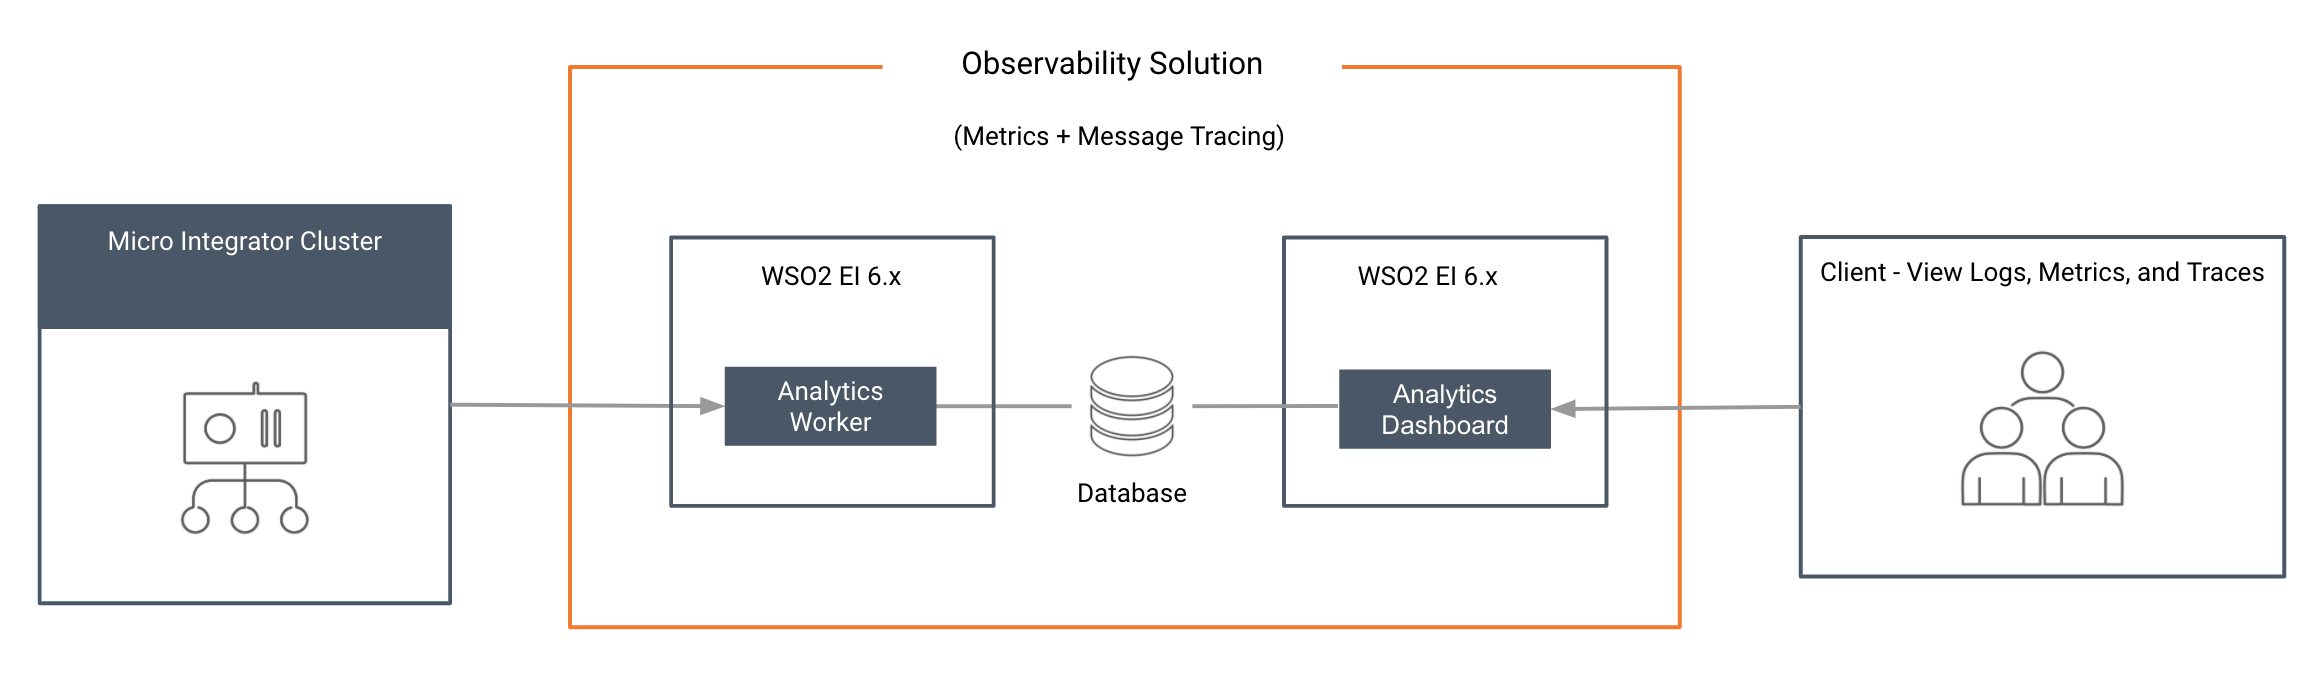
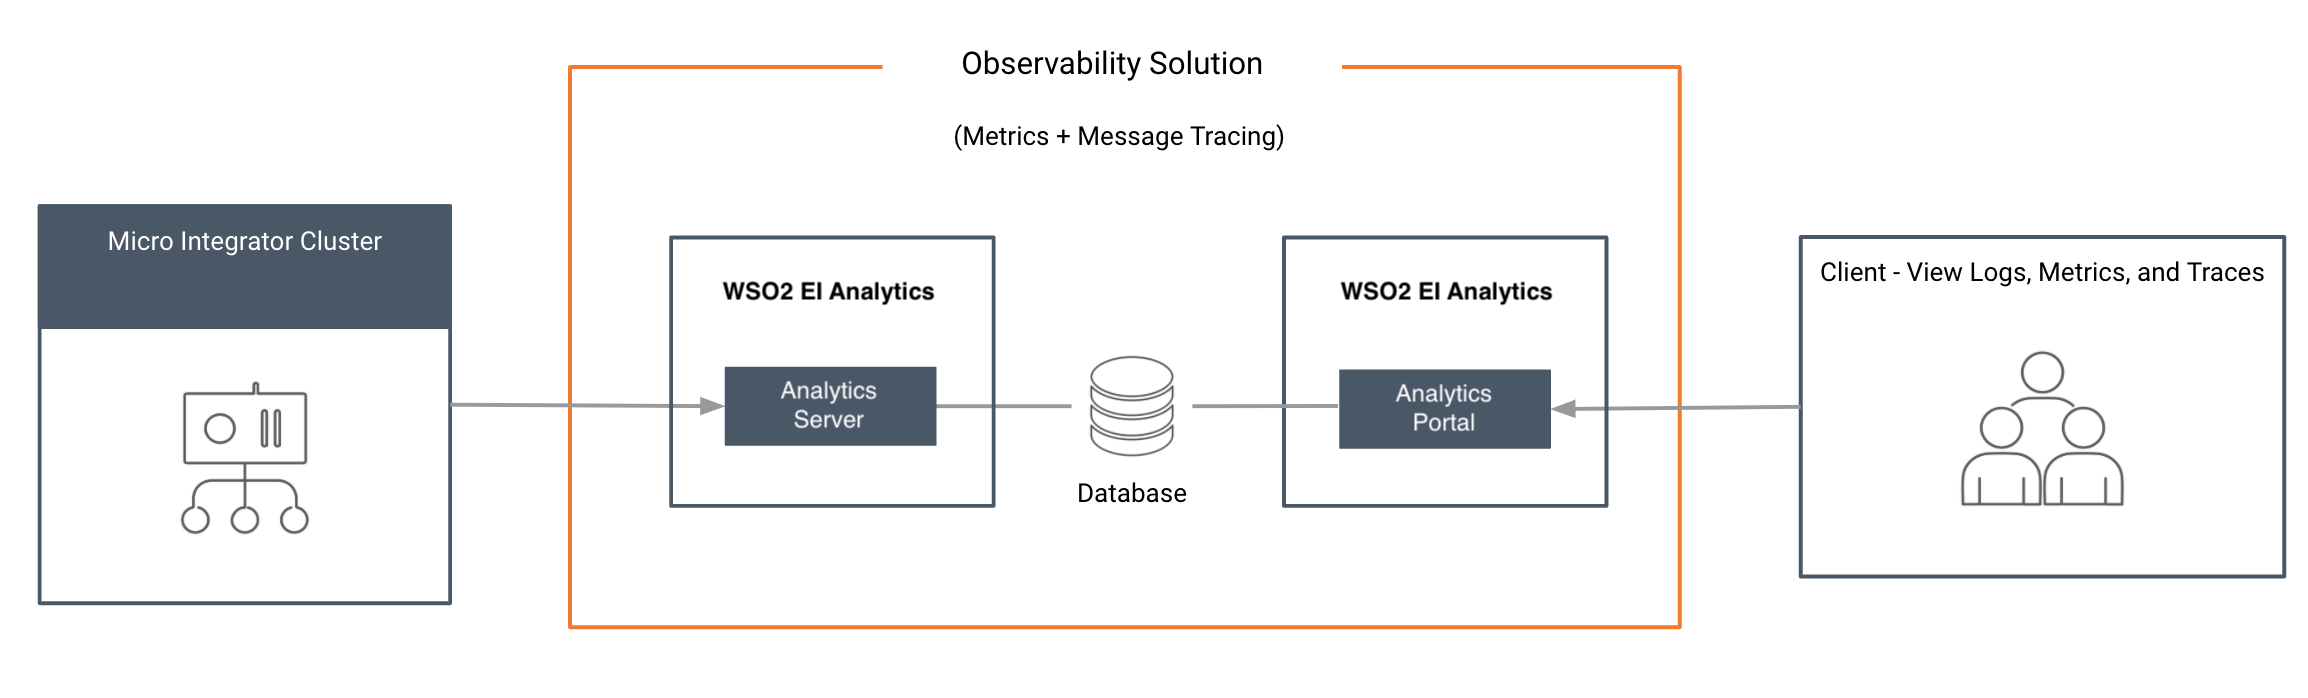
new analytics solution to 7.1.0 branch

diff --git a/en/micro-integrator/docs/administer-and-observe/using-the-analytics-dashboard.md b/en/micro-integrator/docs/administer-and-observe/using-the-analytics-dashboard.md
@@ -1,8 +1,8 @@
-# Using the EI Analytics Dashboard
+# Using the EI Analytics Portal
 
-Let's use the **Analytics profile** of [WSO2 EI 6.6.0](https://docs.wso2.com/display/EI660) to view and monitor **statistics** and **message tracing**.
+Let's use **EI Analytics** to view and monitor **statistics** and **message tracing**.
 
-You can monitor the following statistics and more through the EI Analytics profile:
+You can monitor the following statistics and more through the EI Analytics portal:
 
 - Request Count
 - Overall TPS
@@ -12,8 +12,6 @@ You can monitor the following statistics and more through the EI Analytics profi
 - Top Endpoints by Request Count
 - Top Inbound Endpoints by Request Count
 - Top Sequences by Request Count
-- See [this documentation](https://docs.wso2.com/display/EI660/Analyzing+the+ESB+Profile+Statistics+Overview) 
-for more information on what you can monitor using EI Analytics.
 
 !!! Tip
     Monitoring the usage of the integration runtime using statistical information is very important for understanding the overall health of a system that runs in production. Statistical data helps to do proper capacity planning, to keep the runtimes in a healthy state, and for debugging and troubleshooting problems. When it comes to troubleshooting, the ability to trace messages that pass through the mediation flows of the Micro Integrator is very useful.
@@ -26,10 +24,10 @@ for more information on what you can monitor using EI Analytics.
     <table>
         <tr>
             <th>
-                EI_6.6.0_HOME
+                EI_ANALYTICS_HOME
             </th>
             <td>
-                This is the root folder of your EI 6.6.0 installation.
+                This is the root folder of your EI Analytics installation.
             </td>
         </tr>
         <tr>
@@ -46,20 +44,20 @@ for more information on what you can monitor using EI Analytics.
 
 Let's start the servers in the given order.
 
-### Starting the Analytics Worker
+### Starting the Analytics Server
 
 !!! Note
-    Be sure to start the **Analytics** worker before [starting the Micro Integrator](#starting-the-micro-integrator).
+    Be sure to start the **Analytics** server before [starting the Micro Integrator](#starting-the-micro-integrator).
 
-1.  Open a terminal and navigate to the `<EI_6.x.x_HOME>/wso2/analytics/bin` directory.
-2.  Start the Analytics Worker runtime by executing the following command:
+1.  Open a terminal and navigate to the `<EI_ANALYTICS_HOME>/bin` directory.
+2.  Start the Analytics server by executing the following command:
 
     ```bash tab='On MacOS/Linux/Centos'
-    sh worker.sh
+    sh server.sh
     ```
 
     ```bash tab='On Windows'
-    worker.bat
+    server.bat
     ```
 
 ### Starting the Micro Integrator
@@ -67,28 +65,28 @@ Let's start the servers in the given order.
 !!! Warning
     Be sure to [configure the SSL certificates](../../setup/observability/setting-up-classic-observability-deployment/#configure-ssl-certificates) before starting the Micro Integrator.
 
-Once you have [started the Analytics Worker](#starting-the-analytics-worker), you can [start the Micro Integrator](../../../setup/installation/install_in_vm_installer/).
+Once you have [started the Analytics Server](#starting-the-analytics-server), you can [start the Micro Integrator](../../../setup/installation/install_in_vm_installer/).
 
-### Starting the Analytics Dashboard
+### Starting the Analytics Portal
 
-1.  Open a terminal and navigate to the `<EI_6.x.x_HOME>/wso2/analytics/bin` directory.
-2.  Start the Analytics Dashboard runtime by executing the following command:
+1.  Open a terminal and navigate to the `<EI_ANALYTICS_HOME>/bin` directory.
+2.  Start the Analytics Portal's runtime by executing the following command:
 
     ```bash tab='On MacOS/Linux/Centos'
-    sh dashboard.sh
+    sh portal.sh
     ```
 
     ```bash tab='On Windows'
-    dashboard.bat
+    portal.bat
     ```
 
-In a new browser window or tab, open the Analytics dashboard using the following URL: <https://localhost:9643/portal>. Use `admin` for both the username and password.
+In a new browser window or tab, open the Analytics portal using the following URL: <https://localhost:9643/portal>. Use `admin` for both the username and password.
 
 <img src="../../assets/img/ei-analytics/dashboard-login.png" width="500">
 
-## Publishing statistics to the dashboard
+## Publishing statistics to the portal
 
-Let's **test this solution** by running the [service chaining](../../use-cases/tutorials/exposing-several-services-as-a-single-service) tutorial. When the artifacts deployed in the Micro Integrator are invoked, the statistics will be available in the dashboard. 
+Let's **test this solution** by running the [service chaining](../../use-cases/tutorials/exposing-several-services-as-a-single-service) tutorial. When the artifacts deployed in the Micro Integrator are invoked, the statistics will be available in the portal. 
 
 Follow the steps given below.
 
@@ -115,7 +113,7 @@ Follow the steps given below.
     Let's send 8 requests to the Micro Integrator to invoke the integration artifacts:
 
     !!! Tip
-        For the purpose of demonstrating how successful messages and message failures are illustrated in the dashboard, let's send 2 of the requests while the back-end service is not running. This should generate a success rate of 75%.
+        For the purpose of demonstrating how successful messages and message failures are illustrated in the portal, let's send 2 of the requests while the back-end service is not running. This should generate a success rate of 75%.
 
     1.  Create a JSON file called `request.json` with the following request payload.
         ```json
@@ -154,9 +152,9 @@ Follow the steps given below.
 
     3.  Now, shut down the back-end service and send two more requests.
 
-## Viewing the Analytics dashboard
+## Viewing the Analytics portal
 
-Once you have signed in to the analytics dashboard server, click the **Enterprise Integrator Analytics** icon shown below to open the dashboard.  
+Once you have signed in to the analytics portal server, click the **Enterprise Integrator Analytics** icon shown below to open the portal.  
 
 ![Opening the Analytics dashboard for WSO2 EI](../assets/img/ei-analytics/119132315/119132335.png "Opening the Analytics dashboard for WSO2 EI")  
       
@@ -230,11 +228,6 @@ You can also navigate to any of the artifacts by using the top-left menu as show
 
 ### Message tracing
 
-When you go to the [Analytics Dashboard](#starting-the-analytics-dashboard) the message details will be logged as follows:
+When you go to the [Analytics portal](#starting-the-analytics-portal) the message details will be logged as follows:
 
-![Message tracing per API](../assets/img/ei-analytics/119132315/message-tracing.png "Message tracing per API") 
-
-## What's Next?
-
-See [this documentation](https://docs.wso2.com/display/EI660/Analyzing+the+ESB+Profile+Statistics+Overview) 
-for more information on what you can monitor using EI Analytics.
+![Message tracing per API](../assets/img/ei-analytics/119132315/message-tracing.png "Message tracing per API")

diff --git a/en/micro-integrator/docs/setup/observability/setting-up-classic-observability-deployment.md b/en/micro-integrator/docs/setup/observability/setting-up-classic-observability-deployment.md
@@ -1,17 +1,18 @@
-# Setting up the EI Analytics Profile for Observability
-Follow the instructions given below to enable observability for your Micro Integrator deployment using the [Analytics profile of WSO2 EI 6.6.0](https://docs.wso2.com/display/EI660/Using+the+WSO2+EI+Analytics+Profile). 
+# Setting up EI Analytics for Observability
+
+Follow the instructions given below to enable observability for your Micro Integrator deployment using <b>EI Analytics</b>. 
 
 ![EI-Analytics Observability](../../assets/img/monitoring-dashboard/classic-observability-architecture.png)
 
-The Analytics profile consists of two components: **Worker** and **Dashboard**. The worker is the server that processes the data streams that are sent from the Micro Integrator and publishes the statistics to a database. The dashboard reads the statistics published by the worker and displays the statistics. The worker and dashboard are connected through the database.
+EI Analytics consists of two components: **Server** and **Portal**. The server processes the data streams that are sent from the Micro Integrator and publishes the statistics to a database. The portal reads the statistics published by the worker and displays the statistics. The server and portal are connected through the database.
 
 This solution is more suitable if you already have an observability stack such as ELK,  or if you want more business analytics and less operational observability. To select the most appropriate observability solution for your deployment, see [Observability Deployment Strategy](../../../setup/observability/observability-deployment-strategy).
 
 ## System requirements
 
-You will be running three servers (analytics worker, analytics dashboard, and the Micro Integrator) for this solution. Be sure that you have the required system specifications to run each server.
+You will be running three servers (EI Analytics server, EI Analytics portal, and the Micro Integrator) for this solution. Be sure that you have the required system specifications to run each server.
 
--   For the Analytics **Worker**:
+-   For the Analytics **Server**:
 
     <table>
     <tbody>
@@ -26,7 +27,7 @@ You will be running three servers (analytics worker, analytics dashboard, and th
     </tbody>
     </table>
 
--   For the Analytics **Dashboard**:
+-   For the Analytics **Portal**:
 
     <table>
     <tbody>
@@ -45,15 +46,16 @@ You will be running three servers (analytics worker, analytics dashboard, and th
 
 ## Download the servers
 
--   Download and [install WSO2 EI 6.6.0](https://docs.wso2.com/display/EI660/Installing+the+Product). 
+-   To download EI Analytics:
+    1.  Go to the WSO2 Enterprise Integrator <a href="https://wso2.com/integration/">product page</a>, click <b>Download</b>, and then go to the <b>Other Resources</b> section.
 
-    !!! Tip
-        You will use the Analytics servers from this distribution.
+        <img src="../../../assets/img/observability/download-ei-analytics.png">
 
-    The location of your WSO2 EI 6.x.x installation will be referred to as `<EI_6.x.x_HOME>`.
+    2.  Click <b>Integration Analytics</b> to download the distribution.
 
--   Download and [install the Micro Integrator](../../../setup/installation/install_in_vm_installer) of EI 7.1. 
-    
+    The location of your Analytics installation will be referred to as `<EI_ANALYTICS_HOME>`.
+
+-   Download and [install the Micro Integrator](../../../setup/installation/install_in_vm_installer) of EI 7.1.
 
 ## Configuring the Micro Integrator
 
@@ -64,8 +66,6 @@ You will be running three servers (analytics worker, analytics dashboard, and th
 
 To allow the Micro Integrator server and the Analytics server to communicate using SSL, the digital certificates should be shared by the two servers. See the instructions on [adding SSL certificates to keystores](../../../setup/security/importing_ssl_certificate).
     
-For testing, you can simply copy the keystore files from the `<EI_6.x.x_HOME>/wso2/analytics/resources/security` directory to the `MI_HOME/resources/security` directory.
-
 ### Enabling statistics monitoring
 
 To enable statistics monitoring for the Micro Integrator, add the following parameters in the `deployment.toml` file of your Micro Integrator. This file is stored in the `MI_HOME/conf`.
@@ -114,4 +114,4 @@ Follow the steps below to enable statistics for the **endpoint** artifacts:
 
 ## What's Next?
 
-If you have successfully set up your anlaytics deployment, see the instructions on [using the Analytics dashboard](../../../administer-and-observe/using-the-analytics-dashboard).
+If you have successfully set up your anlaytics deployment, see the instructions on [using the analytics portal](../../../administer-and-observe/using-the-analytics-dashboard).

diff --git a/en/micro-integrator/docs/setup/observability/observability-deployment-strategy.md b/en/micro-integrator/docs/setup/observability/observability-deployment-strategy.md
@@ -59,20 +59,20 @@ Once you set up the basic deployment, you can integrate message tracing capabili
 
 ## Classic Observability
 
-In the solution, **metrics monitoring** and **message tracing** is handled using the EI Analytics profile. For **log monitoring**, use log4j2 logs. This is the same solution that was available for previous EI versions.
+In the solution, **metrics monitoring** and **message tracing** is handled using the EI Analytics. For **log monitoring**, use log4j2 logs. This is the same solution that was available for previous EI versions.
 
 ### Technologies
 
 | **Feature**   | **Technology**              |
 |---------------|-----------------------------|
-| Metrics and Tracing       | EI Analytics Worker         |
-| Visualization | EI Analytics Dashboard      |
+| Metrics and Tracing       | EI Analytics server        |
+| Visualization | EI Analytics Portal      |
 | Logs  | Log4j2 |
 
 
 ### Metrics and message tracing
 
-The following diagram depicts how the EI Analytics profile is used for **metrics monitoring** and **message tracing**.
+The following diagram depicts how EI Analytics is used for **metrics monitoring** and **message tracing**.
 
 ![EI-Analytics Observability](../../assets/img/monitoring-dashboard/classic-observability-architecture.png)
 
